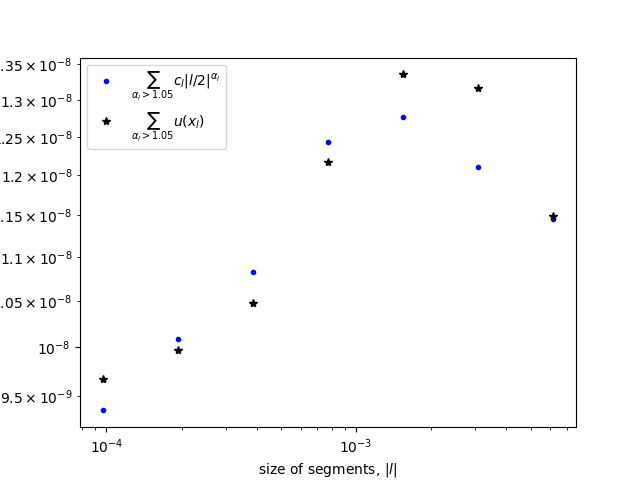
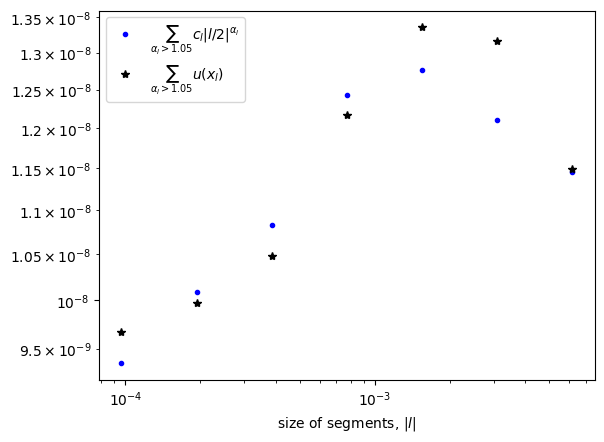
update

diff --git a/Ex3_square_harmonic_adaptive/hm.py b/Ex3_square_harmonic_adaptive/hm.py
@@ -84,12 +84,13 @@ for N in N_all:
    ms_sum_list.append(ms_sum)
    ms_u_list.append(ms_u)
    ms_u_sum_list.append(ms_u_sum)
+
 plt.figure()
 plt.loglog(l_list,ms_list,'b.')
 plt.loglog(l_list,ms_u_list,'k*')
 plt.xlabel('size of segments, $|l|$')
 plt.legend([r'$\sum_{\alpha_l>{%s}}c_l|l/2|^{\alpha_l}$' % alpha_0,r'$\sum_{\alpha_l>{%s}}u(x_l)$'% alpha_0])
-plt.savefig(f"figures/hm_n{n}_v2_{alpha_0}.png")
+plt.savefig(f"figures/hm_n{n}_v2_{alpha_0}.png", bbox_inches="tight")
 plt.close()
 print(f"plot of harmonic measure of edges  with alpha larger than {alpha_0} is saved in figures/hm_n{n}_v2_{alpha_0}.png")
 
@@ -103,7 +104,7 @@ plt.loglog(l_list,ms_p,'b.')
 plt.loglog(l_list,ms_u_p,'k*')
 plt.xlabel('size of segments, $|l|$')
 plt.legend([r'$\sum_{\alpha_l>{%s}}c_l|l/2|^{\alpha_l}/\sum_{l}c_l|l/2|^{\alpha_l}$' % (alpha_0),r'$\sum_{\alpha_l>{%s}}u(x_l)/\sum_{l}u(x_l)$' % (alpha_0)])
-plt.savefig(f"figures/hm_n{n}_p_v2_{alpha_0}.png")
+plt.savefig(f"figures/hm_n{n}_p_v2_{alpha_0}.png", bbox_inches="tight")
 plt.close()
 print(f"plot of percentage of  harmonic measure of edges  with alpha larger than {alpha_0} is saved in figures/hm_n{n}_p_v2_{alpha_0}.png")
 
